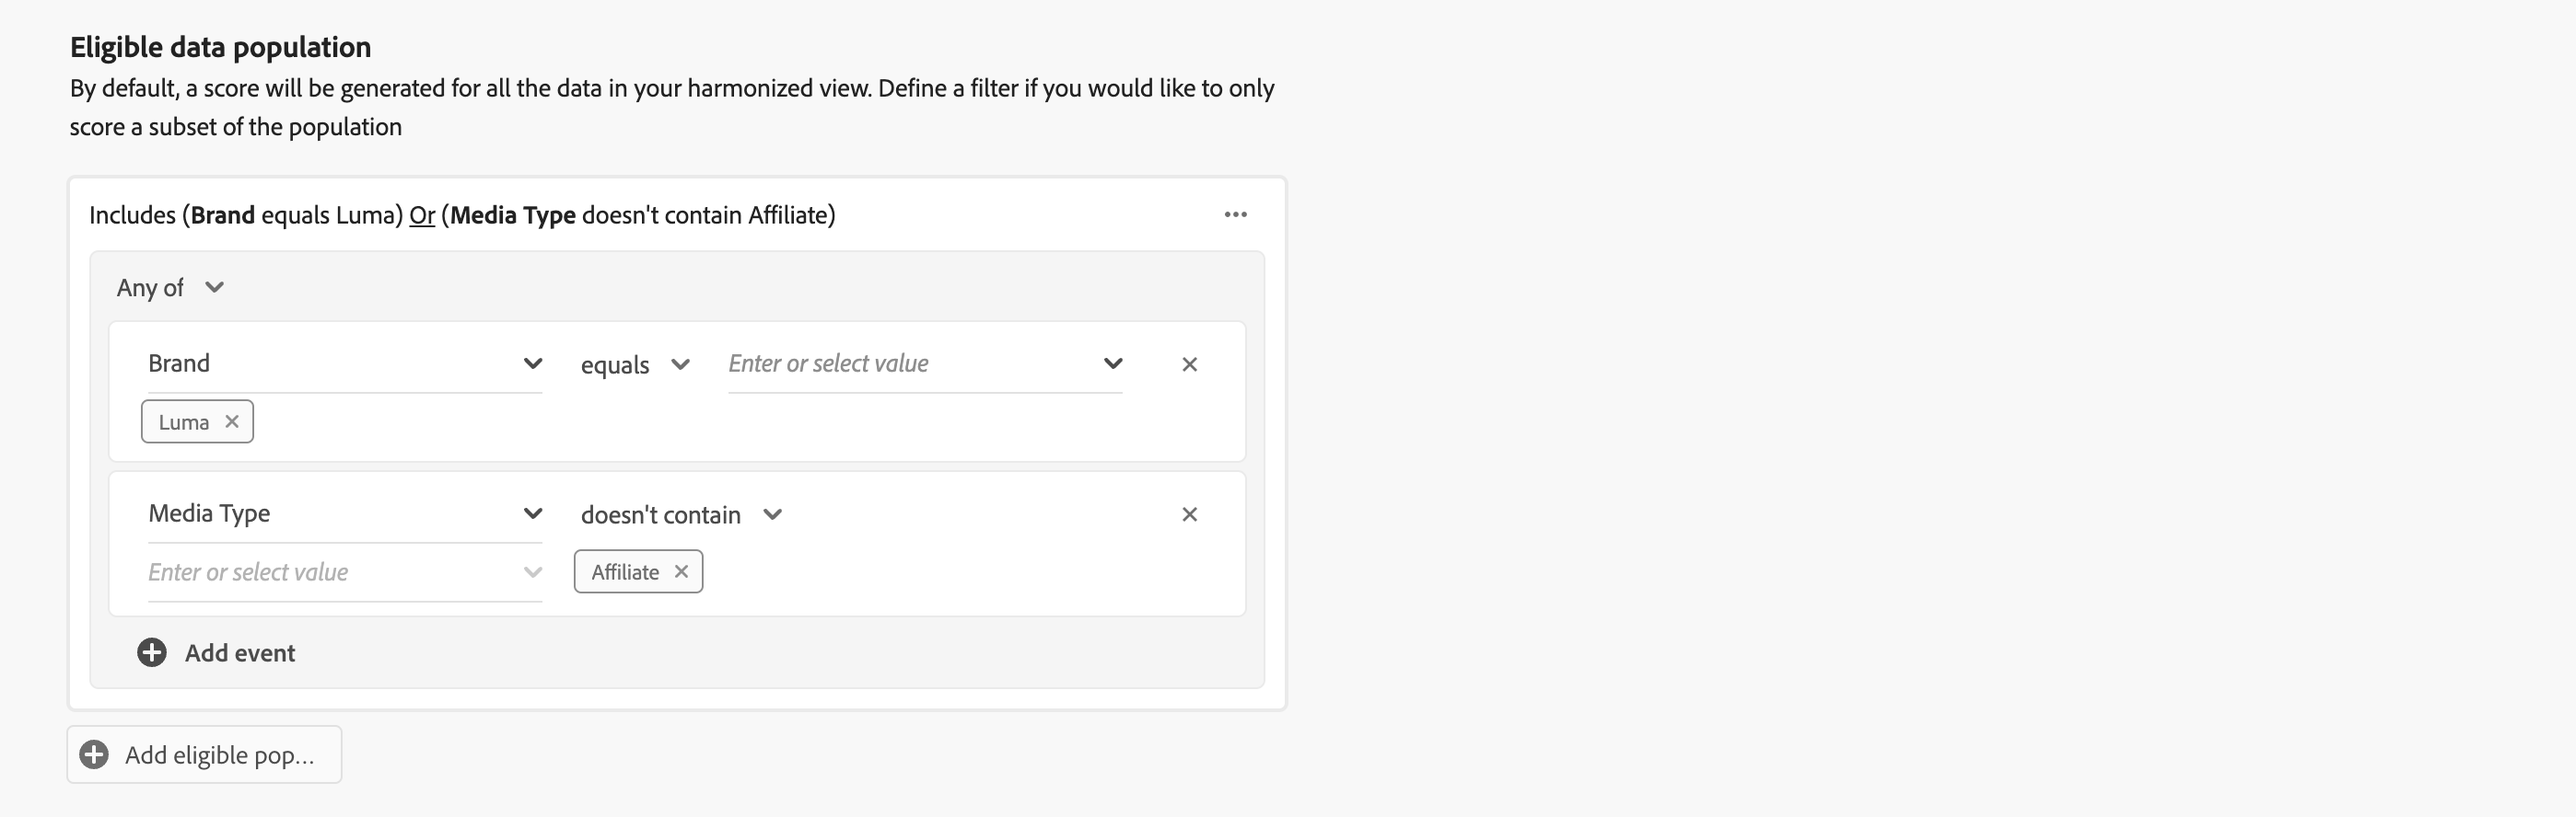
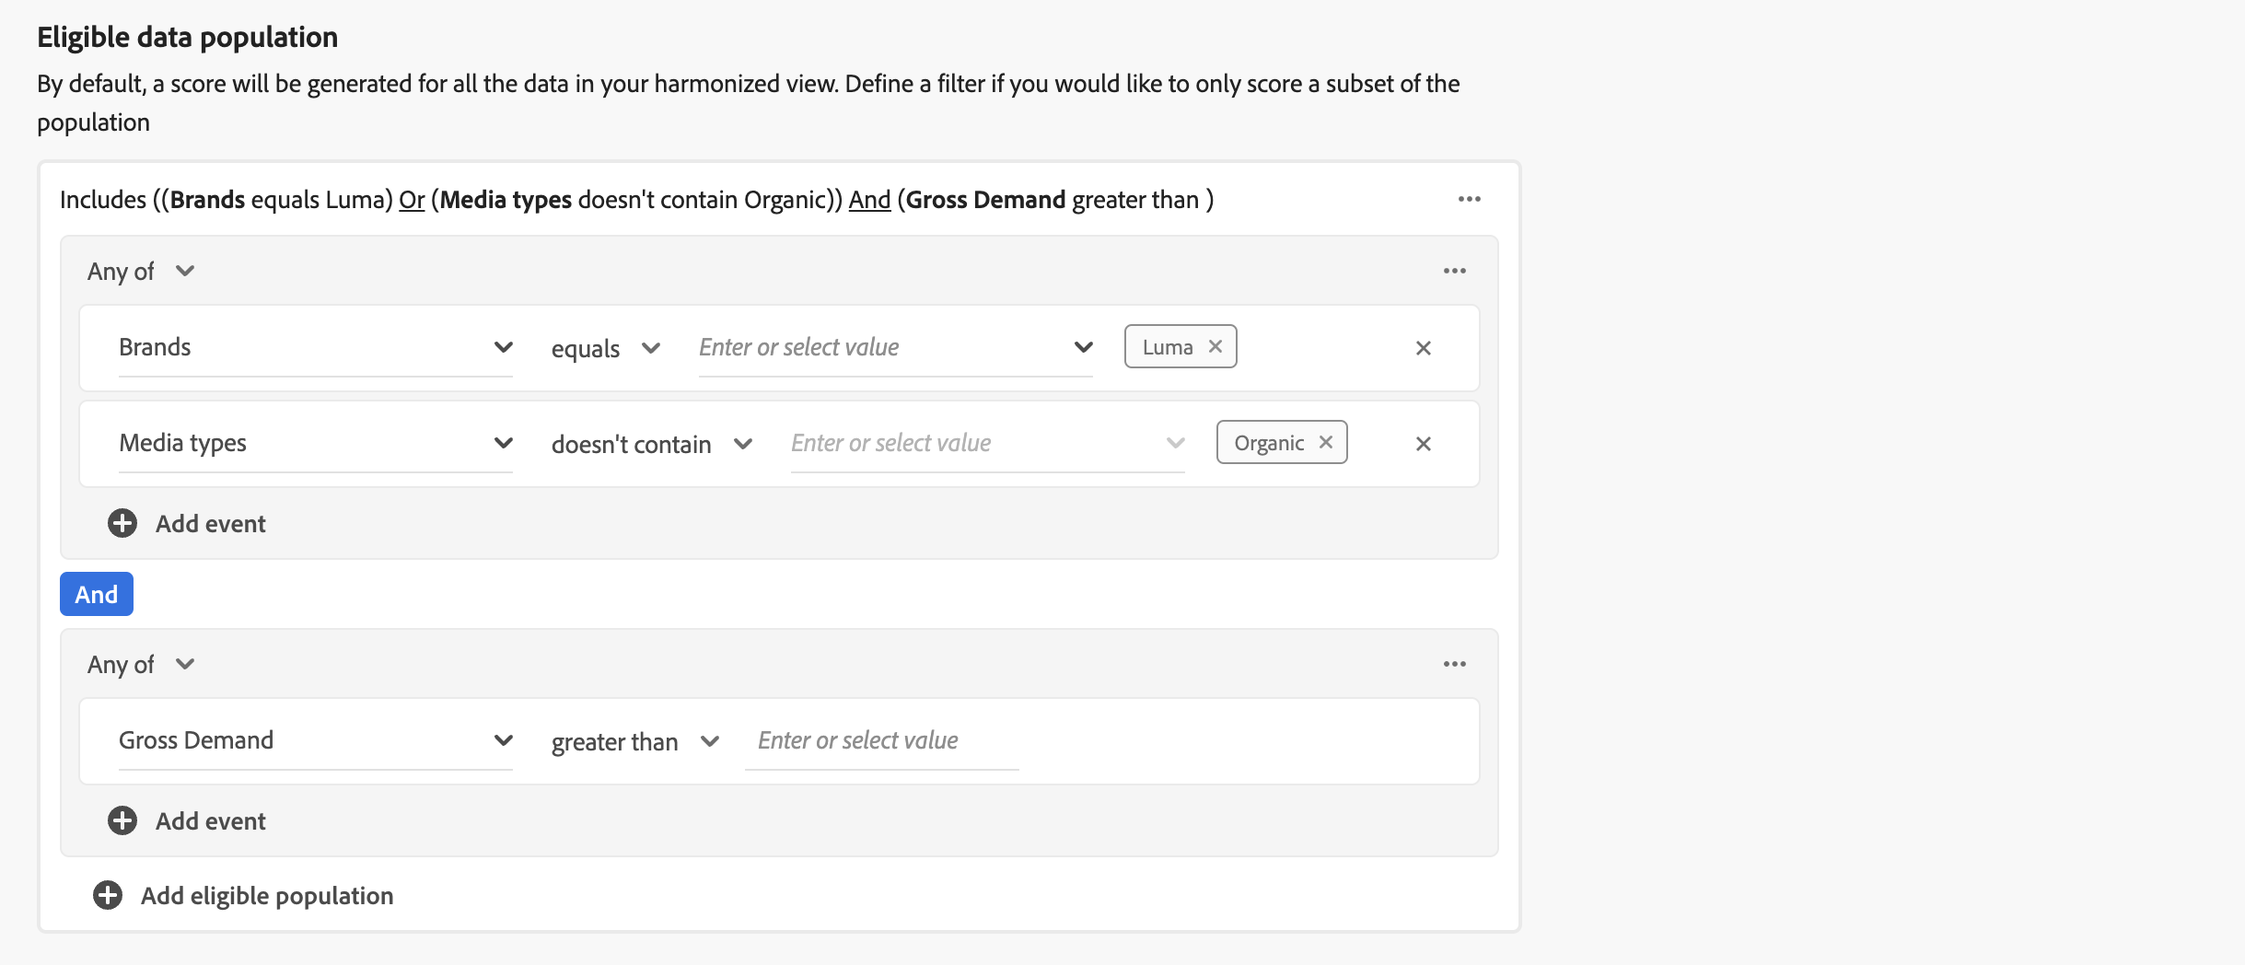
AMM-714
Updated docs on how to define eligible data population, introducing now the option to AND or OR containers.

diff --git a/help/models/create.md b/help/models/create.md
@@ -70,10 +70,11 @@ You configure your model in the **[!UICONTROL Configure]** step. Configuration i
 
       1. To filter using all or any of multiple events defined in the container, select **[!UICONTROL Any of]** or **[!UICONTROL All of]**. The label correspondingly changes from **[!UICONTROL Include ... Or ...]** to **[!UICONTROL Include ... And ...]**.
     
-    * To add an eligible data population container, select ![Add](/help/assets/icons/AddCircle.svg) **[!UICONTROL Add eligible population]**.
+    * To add an eligible data population container, select ![Add](/help/assets/icons/AddCircle.svg) **[!UICONTROL Add eligible population]**. 
 
     * To remove an eligible data population container, within the container, select ![More](/help/assets/icons/More.svg), and select **[!UICONTROL Remove marketing touchpoint]** from the context menu.
 
+    * Select **And** and **Or** between containers to build more complex definitions for your eligible data population. 
       
 
 1. To add datasets containing external factors to your model, use one or more containers in the **[!UICONTROL External factors dataset]** section. An example of external factors are S&P indices. 
